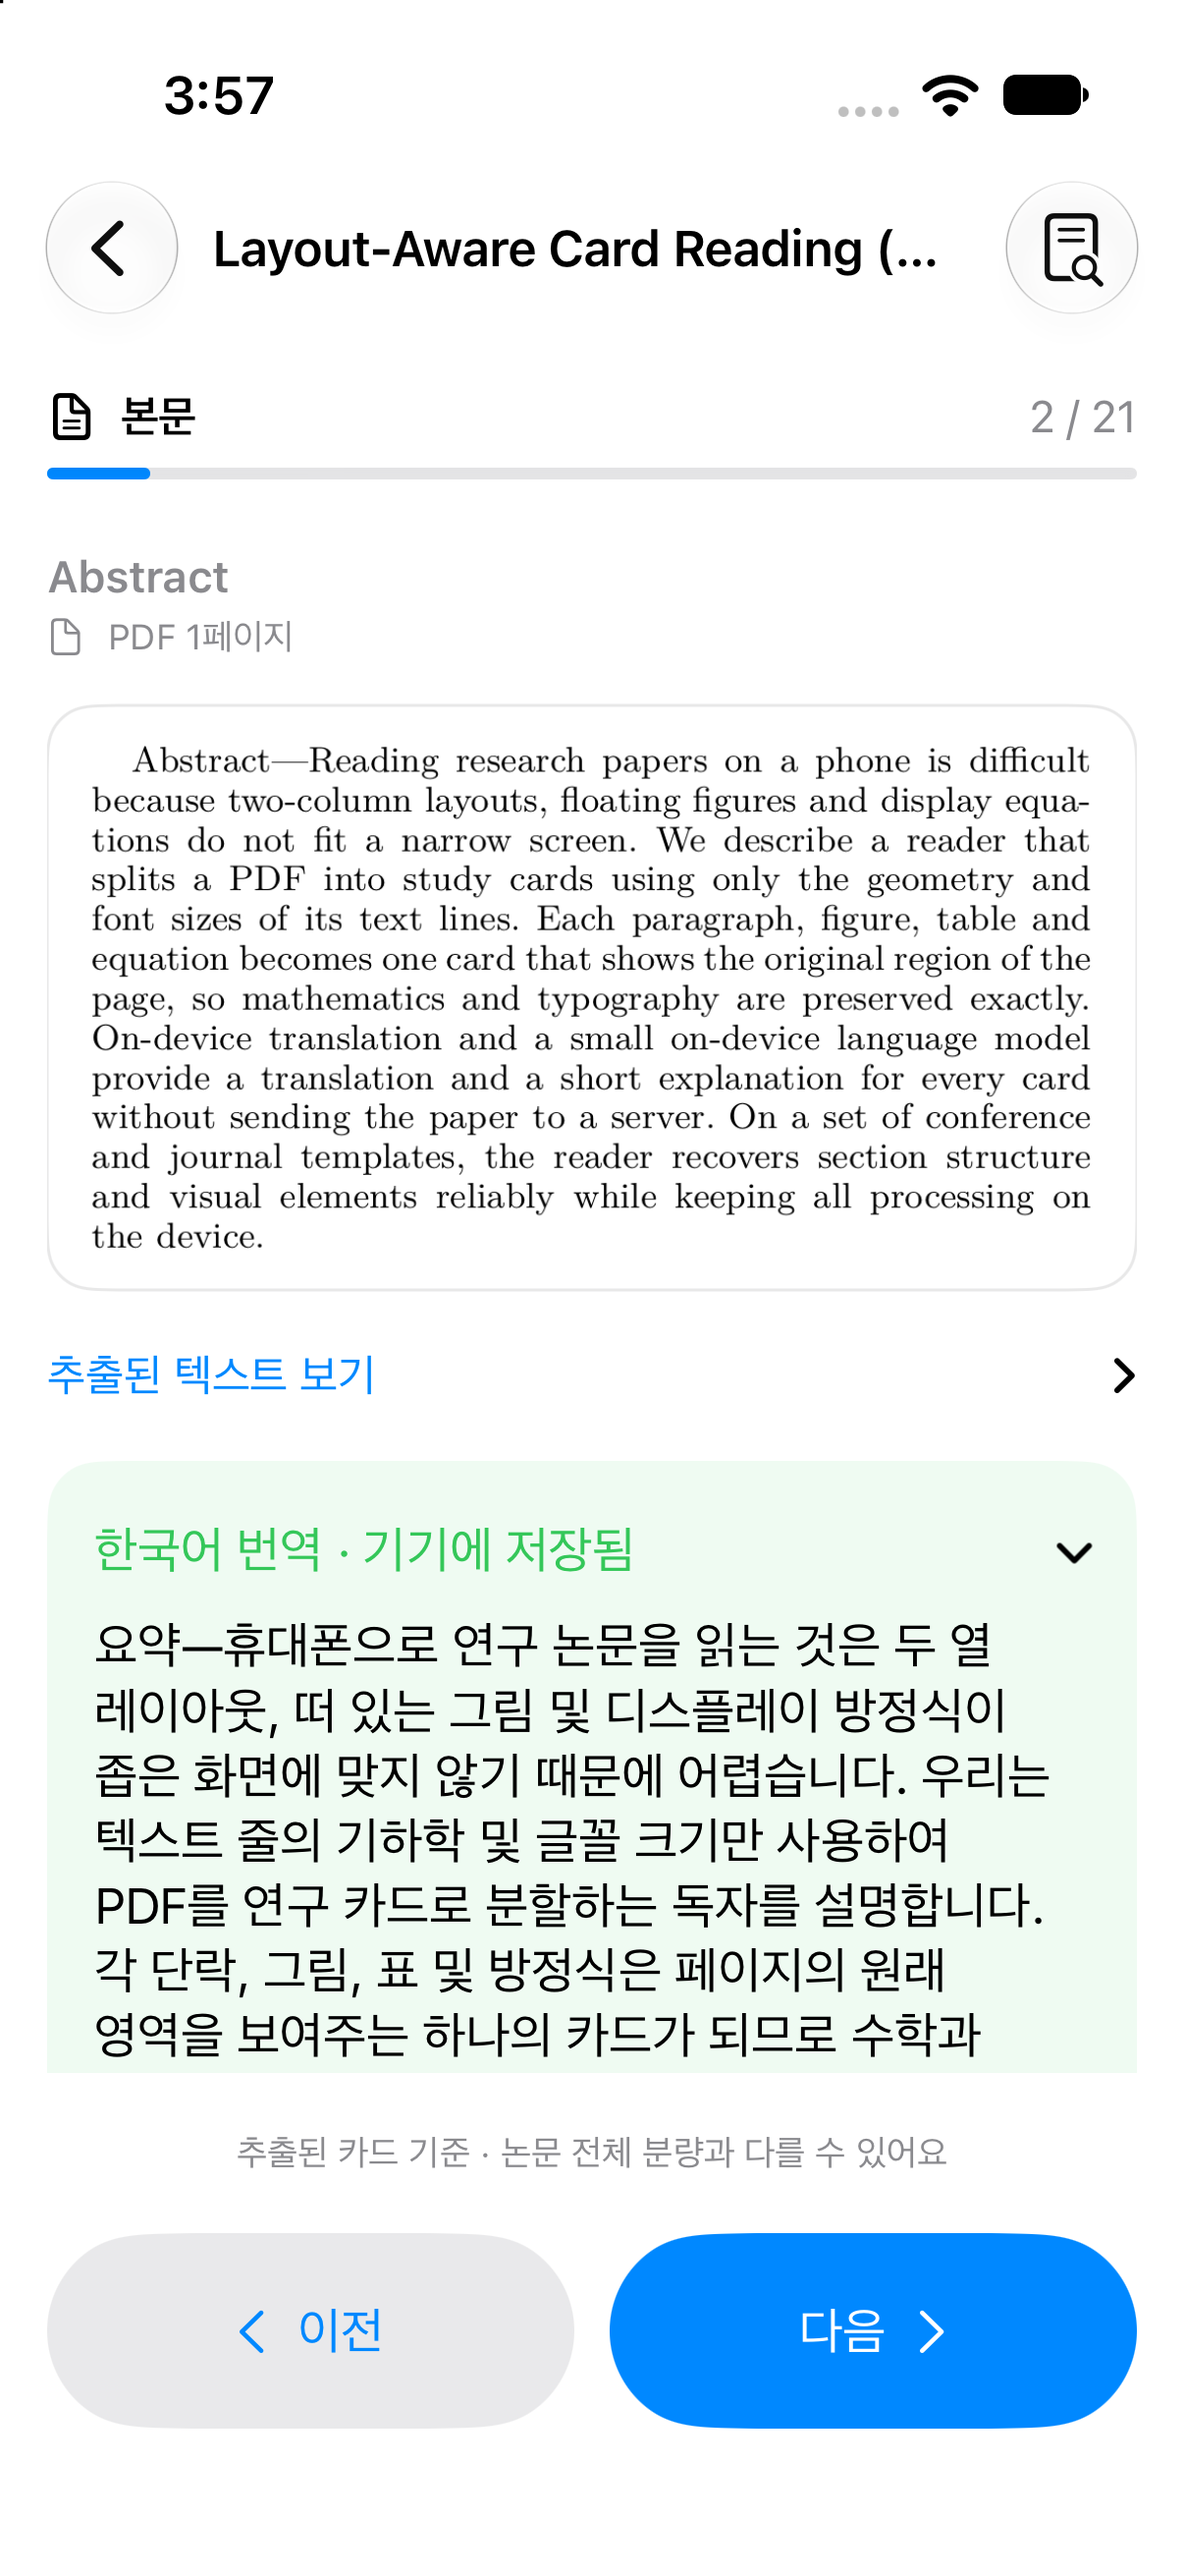
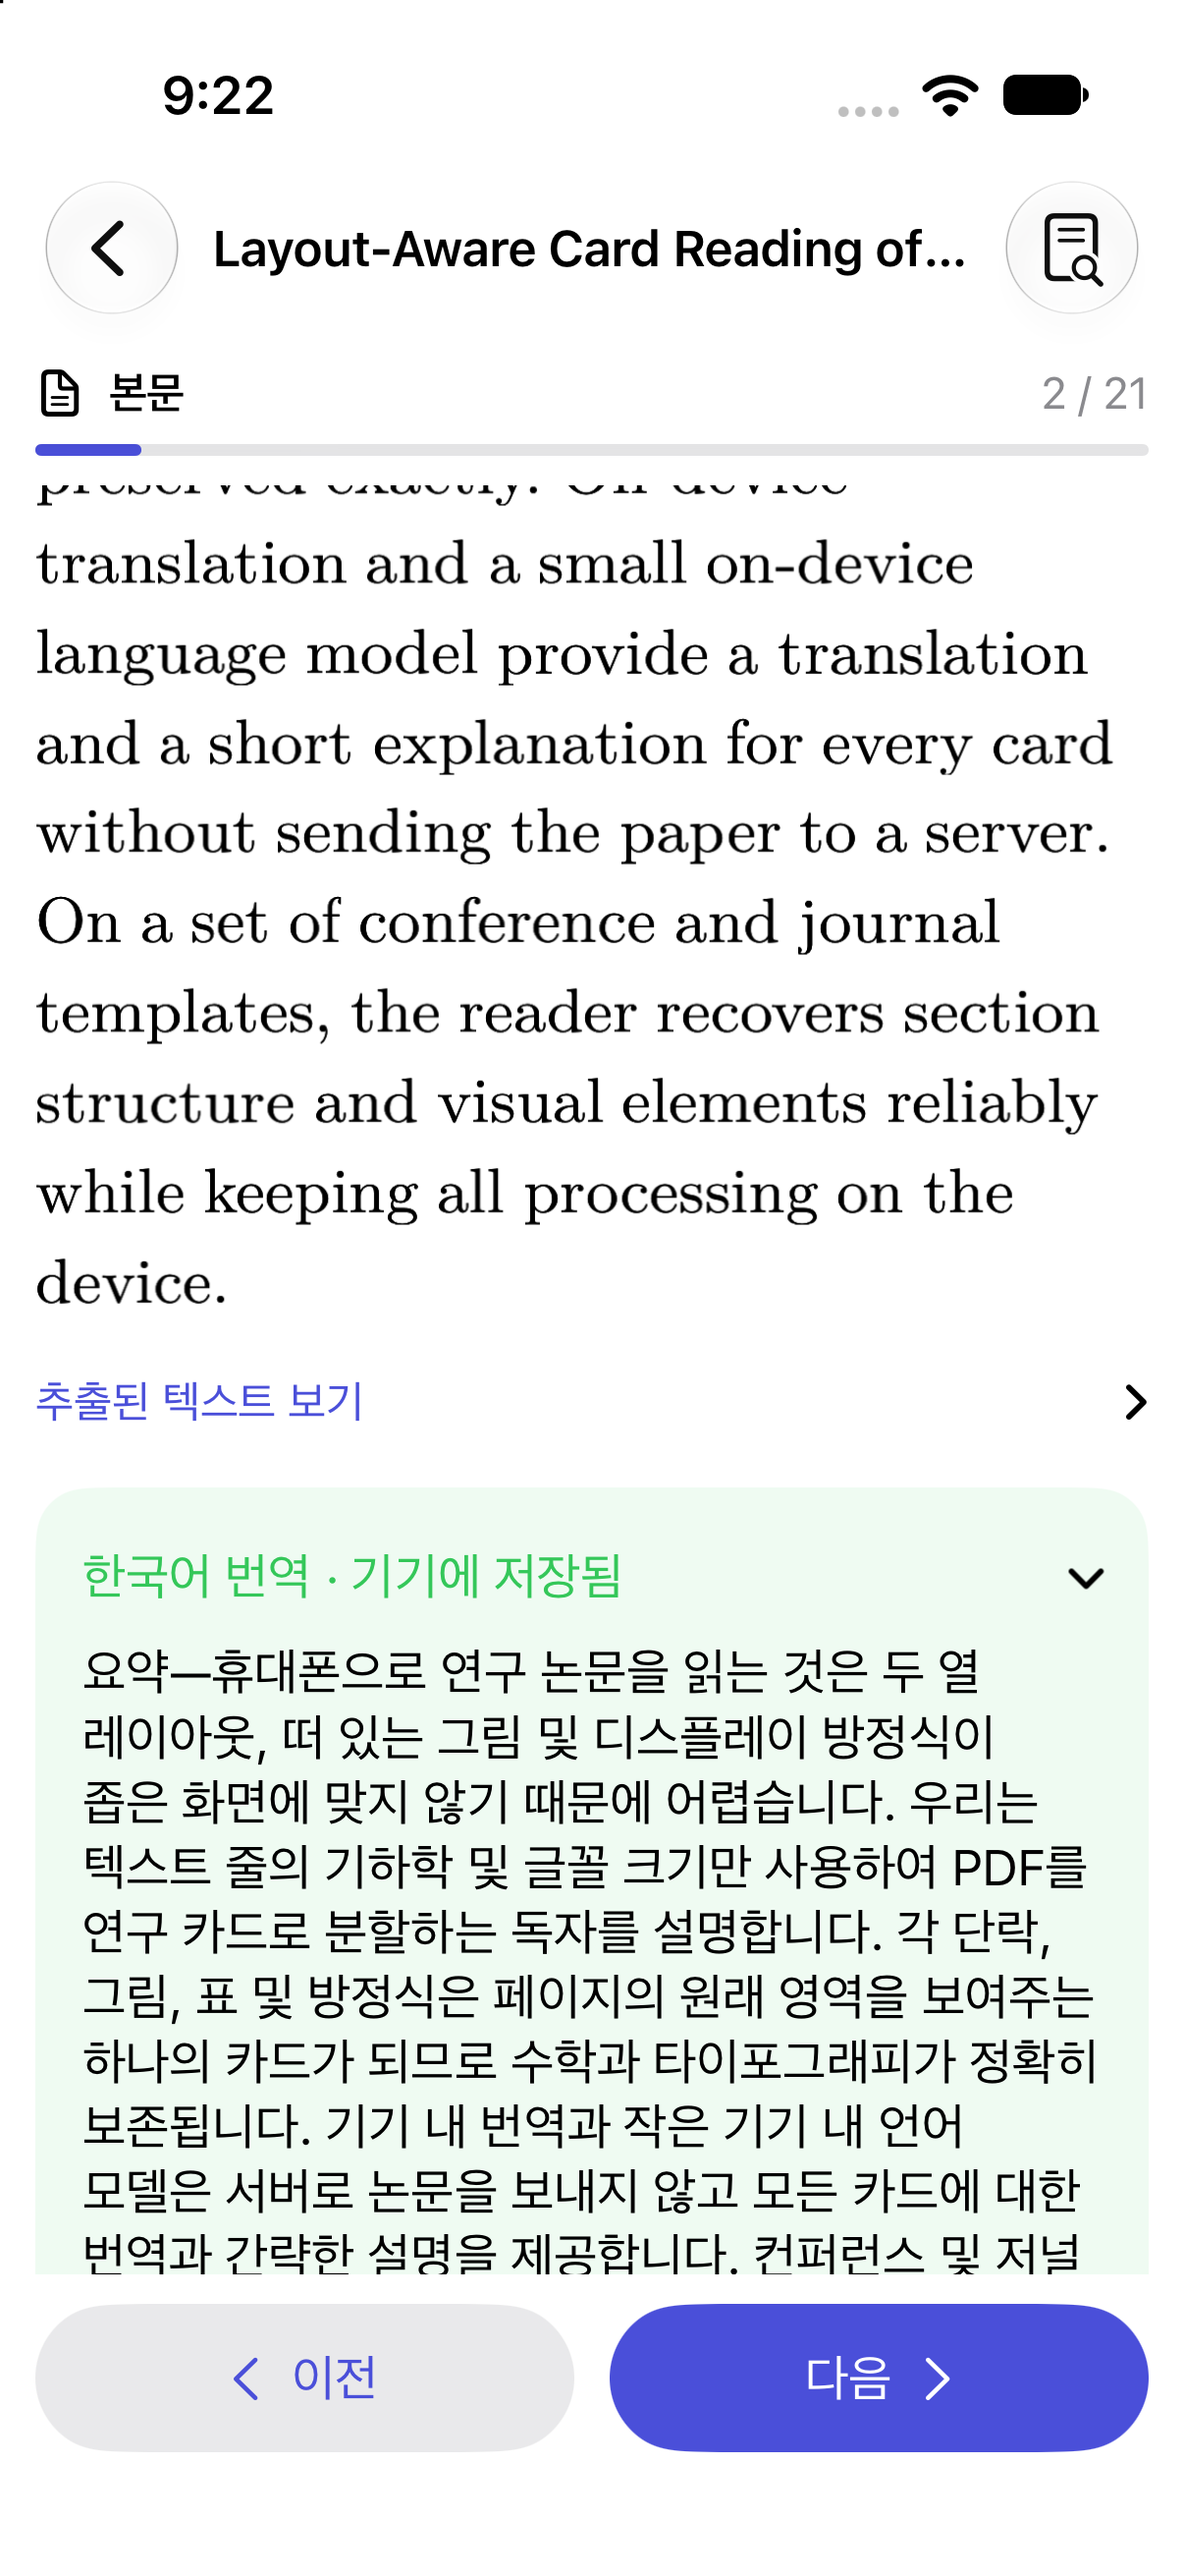
Refresh README and screenshots, fix reflow sheet edges and drop-cap rows

diff --git a/PaperQuest/ReflowView.swift b/PaperQuest/ReflowView.swift
@@ -141,13 +141,23 @@ enum ReflowRenderer {
         }
     }
 
-    private static func sheet(page: PDFPage?, rect: CGRect, pixelScale: CGFloat) -> Sheet? {
-        guard let page, !rect.isNull, rect.width > 0, rect.height > 0 else { return nil }
+    private static func sheet(page: PDFPage?, rect wordsRect: CGRect, pixelScale: CGFloat) -> Sheet? {
+        guard let page, !wordsRect.isNull, wordsRect.width > 0, wordsRect.height > 0 else { return nil }
         page.displaysAnnotations = false
         let format = UIGraphicsImageRendererFormat()
         format.scale = 1
         format.opaque = true
-        let pixelSize = CGSize(width: rect.width * pixelScale, height: rect.height * pixelScale)
+        // Whole pixels with a margin: a partly painted edge pixel would turn into a line of "ink"
+        // along words at the sheet's right or bottom edge.
+        let padded = wordsRect.insetBy(dx: -2, dy: -2)
+        let pixelSize = CGSize(
+            width: (padded.width * pixelScale).rounded(.up),
+            height: (padded.height * pixelScale).rounded(.up)
+        )
+        let rect = CGRect(
+            x: padded.minX, y: padded.maxY - pixelSize.height / pixelScale,
+            width: pixelSize.width / pixelScale, height: pixelSize.height / pixelScale
+        )
         let rendered = UIGraphicsImageRenderer(size: pixelSize, format: format).image { context in
             UIColor.white.setFill()
             context.fill(CGRect(origin: .zero, size: pixelSize))

diff --git a/PaperQuest/ReflowExtractor.swift b/PaperQuest/ReflowExtractor.swift
@@ -144,7 +144,9 @@ nonisolated enum ReflowExtractor {
                 } ?? false
                 // Paragraph indents are small; text wrapped around a drop cap is indented further.
                 let indent = rowRect.minX - columnLeft
-                let indented = indent > 4 && indent < 18
+                // Rows sharing the previous row's indent (text wrapped beside a drop cap) continue it.
+                let sameIndentAsAbove = previousRow.map { abs($0.minX - rowRect.minX) < 2 } ?? false
+                let indented = indent > 4 && indent < 18 && !sameIndentAsAbove
                 if words.isEmpty || (!continuesRow && (indented || previousLineWasShort)) {
                     lineWords[0] = ReflowWord(pieces: lineWords[0].pieces, startsLine: true)
                 }
